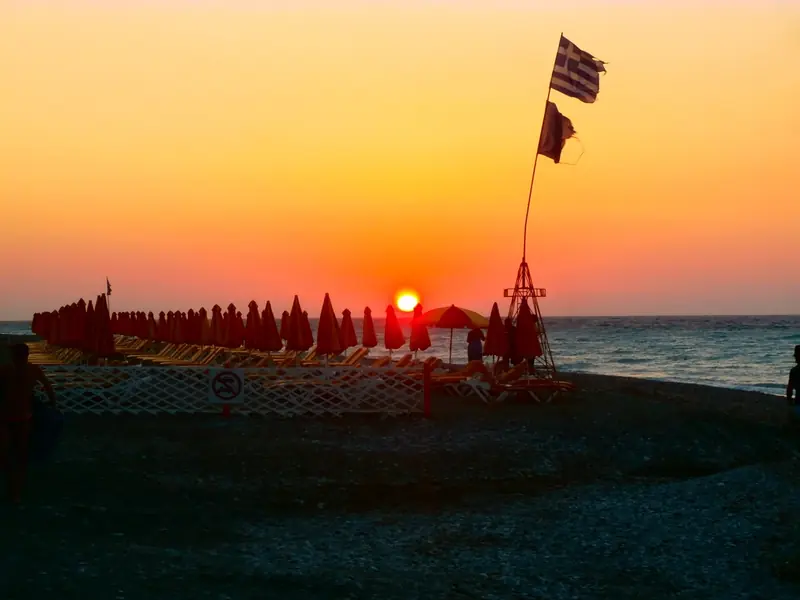
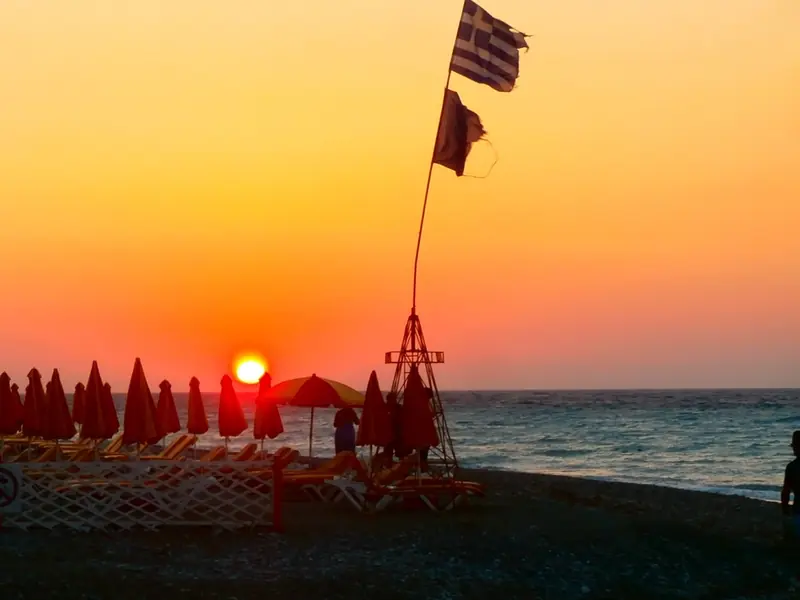
feat(vibe): better photos and per-photo crops for vibe search
Replace breakfast-in-room (food-left) and budget (budget-left) photos,
set a composition-based crop for all 15 photos, update credits.

diff --git a/scripts/build-images.py b/scripts/build-images.py
@@ -73,21 +73,21 @@ def orb_with_alpha(img: Image.Image) -> Image.Image:
 VIBE_DIR = "vibe"
 VIBE_MAX_KB = 60
 VIBE = {
-    "evening-left": (0.5, 0.5, 1.0),
-    "evening-right": (0.5, 0.5, 1.0),
-    "place-left": (0.5, 0.5, 1.0),
-    "place-right": (0.5, 0.5, 1.0),
-    "size-left": (0.5, 0.5, 1.0),
-    "size-right": (0.5, 0.5, 1.0),
+    "evening-left": (0.55, 0.55, 1.15),
+    "evening-right": (0.4, 0.45, 1.15),
+    "place-left": (0.66, 0.42, 1.4),
+    "place-right": (0.55, 0.6, 1.1),
+    "size-left": (0.6, 0.65, 1.2),
+    "size-right": (0.5, 0.45, 1.0),
     "leisure-left": (0.5, 0.5, 1.0),
-    "leisure-right": (0.5, 0.5, 1.0),
-    "food-left": (0.5, 0.5, 1.0),
-    "food-right": (0.5, 0.5, 1.0),
+    "leisure-right": (0.45, 0.45, 1.15),
+    "food-left": (0.4, 0.65, 1.25),
+    "food-right": (0.4, 0.5, 1.0),
     "budget-left": (0.5, 0.5, 1.0),
-    "budget-right": (0.5, 0.5, 1.0),
-    "location-left": (0.5, 0.5, 1.0),
-    "location-right": (0.5, 0.5, 1.0),
-    "balance": (0.5, 0.5, 1.0),
+    "budget-right": (0.55, 0.5, 1.0),
+    "location-left": (0.47, 0.3, 1.8),
+    "location-right": (0.42, 0.45, 1.15),
+    "balance": (0.62, 0.4, 1.4),
 }
 
 

diff --git a/public/images/CREDITS.md b/public/images/CREDITS.md
@@ -18,9 +18,9 @@ coastlines (public domain).
 | `vibe/size-right.webp`     | [Sopot 2023 26 Grand Hotel](https://commons.wikimedia.org/wiki/File:Sopot_2023_26_Grand_Hotel.jpg)                                                                                                                                                                         | Scotch Mist      | CC BY-SA 4.0 |
 | `vibe/leisure-left.webp`   | [Indoor pool of spa with open door at Amantaka luxury Resort & Hotel in Luang Prabang Laos](https://commons.wikimedia.org/wiki/File:Indoor_pool_of_spa_with_open_door_at_Amantaka_luxury_Resort_%26_Hotel_in_Luang_Prabang_Laos.jpg)                                       | Basile Morin     | CC BY-SA 4.0 |
 | `vibe/leisure-right.webp`  | [DFC 1204 Evening lights shimmer on the water as people stroll and relax along the lively beachfront promenade](https://commons.wikimedia.org/wiki/File:DFC_1204_Evening_lights_shimmer_on_the_water_as_people_stroll_and_relax_along_the_lively_beachfront_promenade.jpg) | PattayaPatrol    | CC BY-SA 4.0 |
-| `vibe/food-left.webp`      | [Pinoy Pandesal](https://commons.wikimedia.org/wiki/File:Pinoy_Pandesal.jpg)                                                                                                                                                                                               | Jessartcam       | CC BY-SA 4.0 |
+| `vibe/food-left.webp`      | [Breakfast in bed (Unsplash)](<https://commons.wikimedia.org/wiki/File:Breakfast_in_bed_(Unsplash).jpg>)                                                                                                                                                                   | Toa Heftiba      | CC0          |
 | `vibe/food-right.webp`     | [DZ6 2644 Cozy candlelit dinner tables set for an intimate evening at a charming Thai restaurant](https://commons.wikimedia.org/wiki/File:DZ6_2644_Cozy_candlelit_dinner_tables_set_for_an_intimate_evening_at_a_charming_Thai_restaurant.jpg)                             | PattayaPatrol    | CC BY-SA 4.0 |
-| `vibe/budget-left.webp`    | [Saúde food street market, São Paulo, Brazil](https://commons.wikimedia.org/wiki/File:Sa%C3%BAde_food_street_market,_S%C3%A3o_Paulo,_Brazil.jpg)                                                                                                                           | Wilfredor        | CC BY-SA 4.0 |
+| `vibe/budget-left.webp`    | [Cleveland Hostel room](https://commons.wikimedia.org/wiki/File:Cleveland_Hostel_room.jpg)                                                                                                                                                                                 | Sumanah          | CC BY-SA 4.0 |
 | `vibe/budget-right.webp`   | [Grand Hotel Kraków - Apartament księżnej Czartoryskiej](https://commons.wikimedia.org/wiki/File:Grand_Hotel_Krak%C3%B3w_-_Apartament_ksi%C4%99%C5%BCnej_Czartoryskiej.jpg)                                                                                                | GrandHotelKrk    | CC BY-SA 4.0 |
 | `vibe/location-left.webp`  | [Pier by Sabine Hut 16-9, Nelson Lakes National Park, New Zealand](https://commons.wikimedia.org/wiki/File:Pier_by_Sabine_Hut_16-9,_Nelson_Lakes_National_Park,_New_Zealand.jpg)                                                                                           | Michal Klajban   | CC BY-SA 4.0 |
 | `vibe/location-right.webp` | [Fuente de la Plaza Nueva, Liubliana, Eslovenia, 2017-04-14, DD 50-52 HDR](https://commons.wikimedia.org/wiki/File:Fuente_de_la_Plaza_Nueva,_Liubliana,_Eslovenia,_2017-04-14,_DD_50-52_HDR.jpg)                                                                           | Diego Delso      | CC BY-SA 4.0 |

diff --git a/openspec/specs/vibe-search/spec.md b/openspec/specs/vibe-search/spec.md
@@ -60,3 +60,10 @@
 #### Scenario: Баланс
 - **WHEN** пользователь ответил «Не могу выбрать» на все пары
 - **THEN** итог начинается с отдельного фото «Баланс во всём» с названием поверх
+
+### Requirement: Качество фото вайба
+Каждое фото варианта SHALL соответствовать смыслу варианта и быть сжато не сильнее качества 55 при весе до 60 КБ.
+
+#### Scenario: Завтрак в номер
+- **WHEN** пользователь видит пару «Завтрак в номер» и «Ужин в новом месте»
+- **THEN** на фото «Завтрак в номер» — завтрак в гостиничном номере

diff --git a/openspec/changes/archive/2026-10-21-refine-vibe-photos/tasks.md b/openspec/changes/archive/2026-10-21-refine-vibe-photos/tasks.md
@@ -1,0 +1,4 @@
+# Tasks
+
+- [x] 1.1 Подобрать замены, обработать с кропом, обновить `CREDITS.md`; проверка: 15 файлов ≤ 60 КБ и q ≥ 55 (вывод скрипта), кадры всех 7 пар и итога в `/tmp/refine-vibe-photos-screenshots`.
+- [ ] 1.2 `npm run lint`, `npm run typecheck`, `npm test`, `npm run format:check`, `npm run build` проходят.
